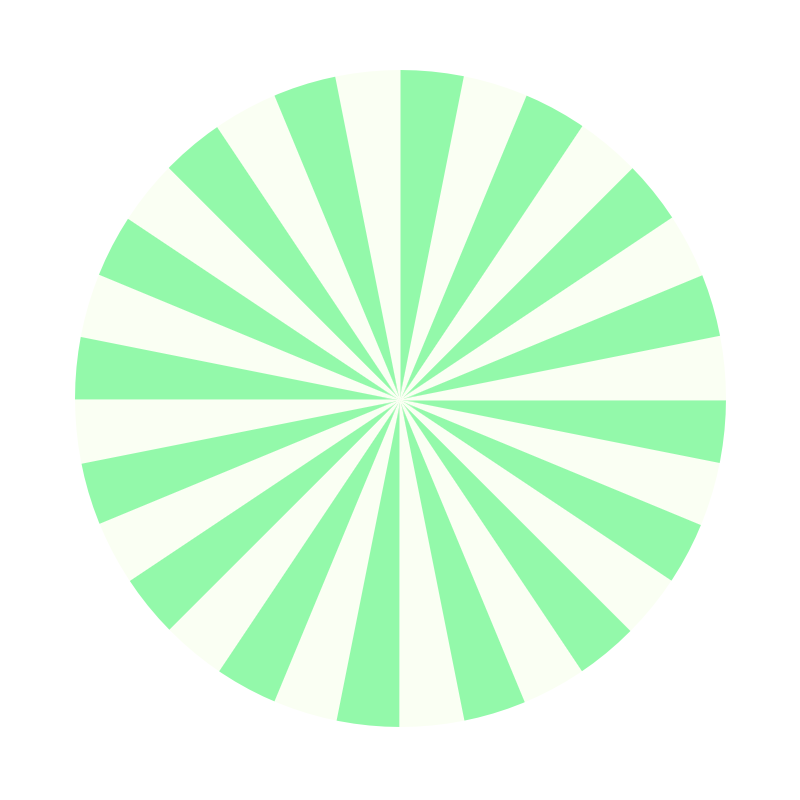
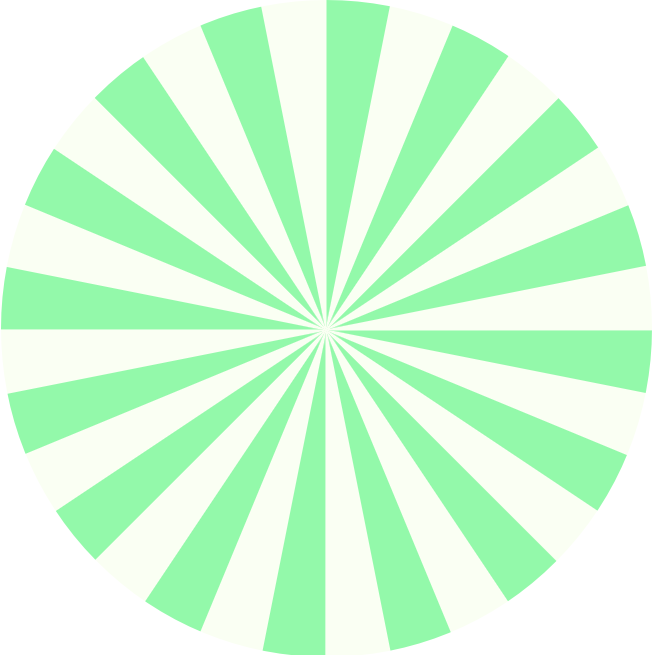
Added tangent line which represents velocity of observer

diff --git a/src/main.js b/src/main.js
@@ -1,11 +1,13 @@
 import {AbstractCanvas} from "./AbstractCanvas";
 import {RotatingImage} from "./RotatingImage";
 
+const OBSERVER_ANGULAR_VELOCITY = 1;
+
 class Main {
     constructor() {
         this.mainCanvas = new AbstractCanvas("main-canvas");
         this.gradBase = 0;
-        this.drawGrad();
+        //this.drawGrad();
         this.images = {
             "pinwheel": this.loadImage("img/pinwheelMockup.png")
         };
@@ -40,10 +42,21 @@ class Main {
     }
 
     render() {
-        this.mainCanvas.ctx.clearRect(0, 0, this.mainCanvas.width / 2, this.mainCanvas.height / 2);
+        this.mainCanvas.ctx.clearRect(0, 0, this.mainCanvas.width, this.mainCanvas.height);
         this.gradBase += 0.01;
         //this.drawGrad();
-        this.wheel.updateImage(0.1);
+        this.wheel.updateImage(OBSERVER_ANGULAR_VELOCITY);
+        this.mainCanvas.ctx.save();
+        this.mainCanvas.ctx.translate(this.mainCanvas.width / 2, this.mainCanvas.height / 2);
+        this.mainCanvas.ctx.beginPath();
+        let startX = (this.images.pinwheel.width / 2) * Math.cos(this.wheel.angularLoc);
+        let startY = (this.images.pinwheel.height / 2) * Math.sin(this.wheel.angularLoc);
+        this.mainCanvas.ctx.moveTo(startX, startY);
+        let observerVelocity = OBSERVER_ANGULAR_VELOCITY * this.mainCanvas.width / 2;
+        this.mainCanvas.ctx.lineTo(startX + observerVelocity * Math.cos(this.wheel.angularLoc + Math.PI / 2),
+            observerVelocity * Math.sin(this.wheel.angularLoc + Math.PI / 2) + startY);
+        this.mainCanvas.ctx.stroke();
+        this.mainCanvas.ctx.restore();
         window.requestAnimationFrame(() => this.render());
     }
 

diff --git a/src/RotatingImage.js b/src/RotatingImage.js
@@ -12,7 +12,6 @@ export class RotatingImage {
     updateImage(angularVelocity) {
         let offset = (this.isFirstTime === true) ? 0 : (angularVelocity * ((Date.now() - this.lastDrawTime) / 1000));
         let rotation = this.angularLoc + offset;
-        console.log(rotation);
         this.isFirstTime = false;
         this.canvas.ctx.save();
         this.canvas.ctx.translate(this.center.x, this.center.y);

diff --git a/src/Vector.js b/src/Vector.js
@@ -4,9 +4,9 @@
 
 export class Vector{
 
-    constructor(x, y){
-        this.magnitude = sqrt(x**2 + y**2);
-        this.direction = Math.atan2(x,y);
+    constructor(x, y){ 
+        this.magnitude = Math.sqrt(Math.pow(x, 2) + Math.pow(y, 2));
+        this.direction = Math.atan2(x, y);
 
     }
 }

diff --git a/src/DopplerShift.js b/src/DopplerShift.js
@@ -1,4 +1,4 @@
 
 export function DopplerShift(speakerPos, obsPos, speakerVel, obsVel) {
-
+    
 }
